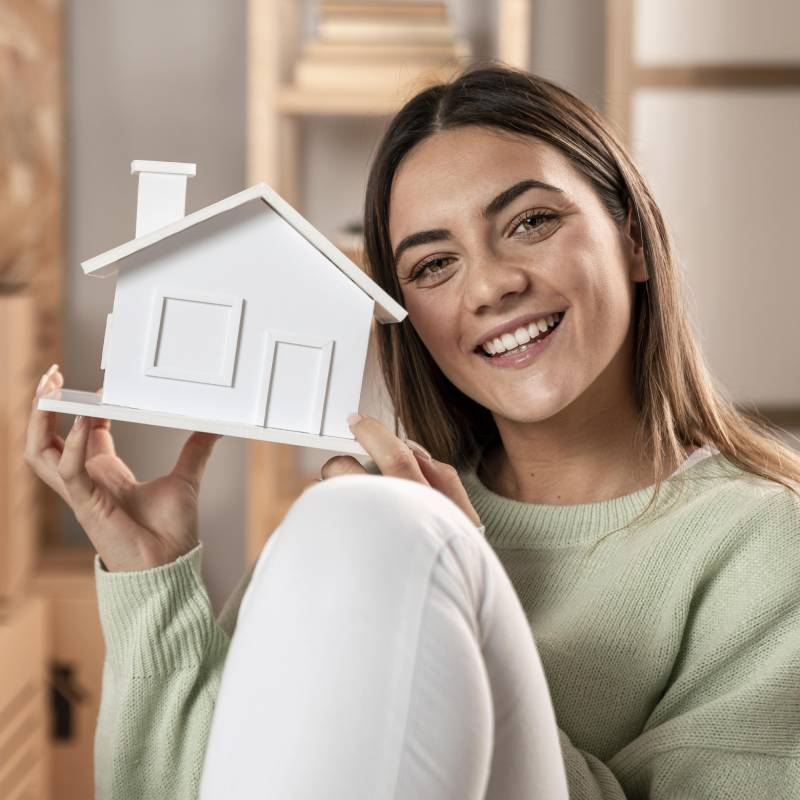
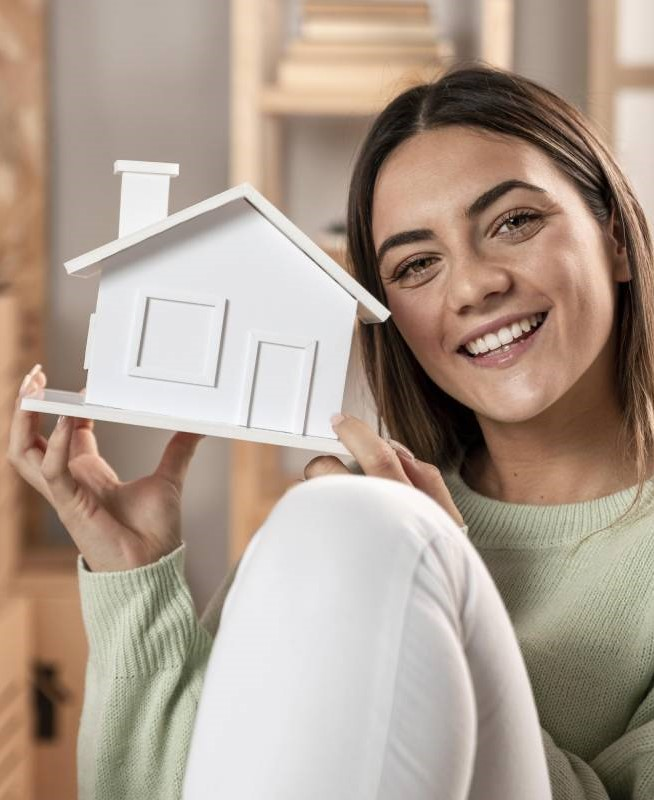
Sección de vivienda organizada y actualizada

diff --git a/public/css/style.css b/public/css/style.css
@@ -302,6 +302,7 @@ main img {
 }
 /* fin tarjetas */
 
+/* inicio empresa */
 .empresa {
   width: 100%;
   height: 900px;
@@ -384,6 +385,63 @@ main img {
   position: relative;
   top: -112.5px; /* Move up by quarter of .empresa-white height */
 }
+/* fin empresa */
+
+/* inicio vivienda */
+.vivienda {
+  width: 100%;
+  height: 700px;
+  background-color: var(--green);
+  display: flex;
+  align-items: center;
+  justify-content: center;
+}
+
+.vivienda-contenedor {
+  display: flex;
+  justify-content: space-around;
+  align-items: center;
+  width: 90%;
+  height: 100%;
+}
+
+.vivienda-contenido {
+  display: flex;
+  flex-direction: column;
+  align-items: flex-start;
+  justify-content: center;
+  gap: 20px;
+  width: 50%;
+  height: 100%;
+}
+
+.vivienda-contenido h1 {
+  font-size: 30px;
+  color: var(--white);
+}
+
+.vivienda-contenido h2 {
+  font-size: 25px;
+  color: var(--white);
+}
+
+.vivienda-contenido h3 {
+  font-size: 20px;
+  color: var(--white);
+}
+
+.vivienda-contenido p {
+  font-size: 20px;
+  color: var(--white);
+}
+
+.vivienda-contenedor img {
+  width: 50%;
+  height:600px;
+  border-radius: 20px;
+}
+
+/* fin vivienda */
 
 /* pagina cuatro */
 /* .pag-4 {
